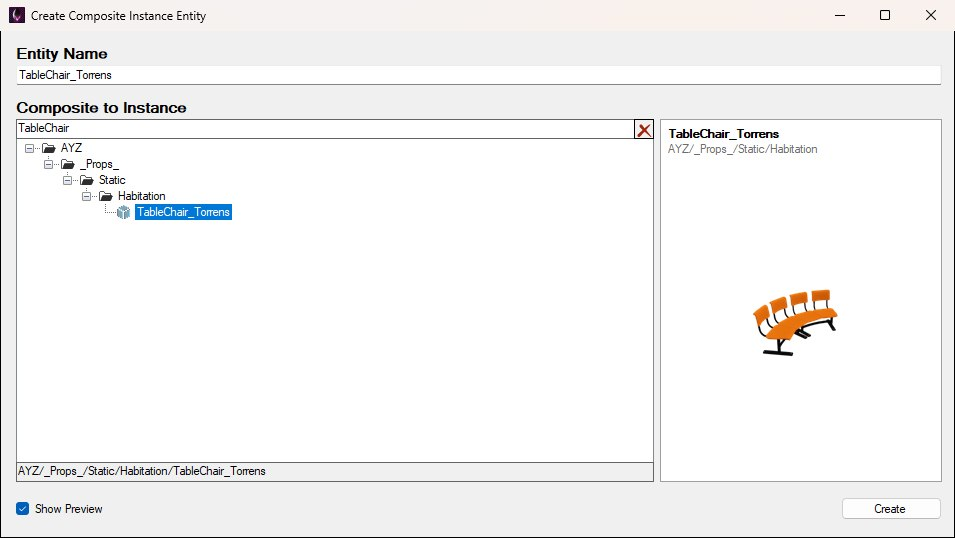
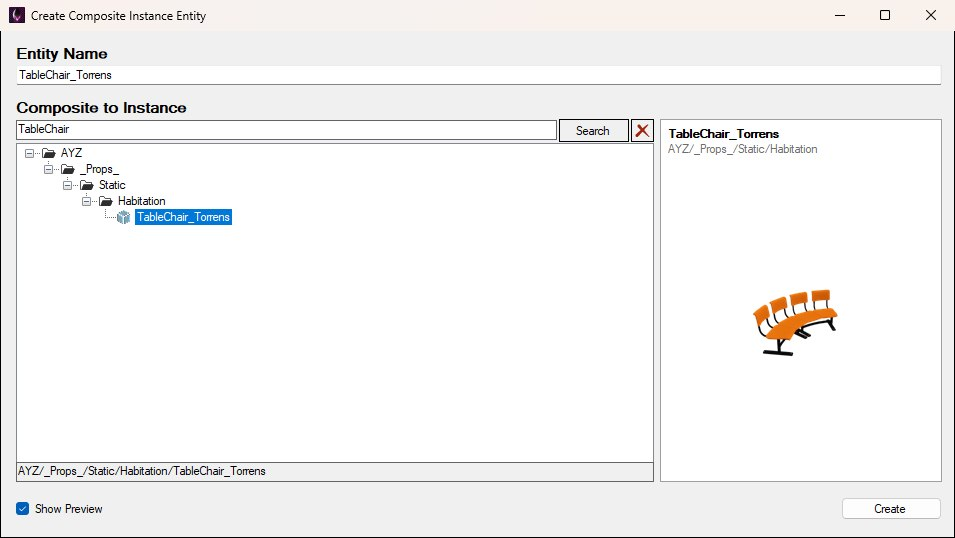
docs update

Changed region(s): [[0.0, 0.2082, 0.6984, 0.4461]]

diff --git a/docs/scripting-intro/index.html b/docs/scripting-intro/index.html
@@ -241,7 +241,7 @@
 			<li><b>[1] Entity List</b> - The panel named after the composite (<b>Bunk_Room Entities</b> here) shows you every entity within the current composite separated by type, with various additional information. Click a column header to sort the list by that column, and click it again to reverse the order - the arrow on the header shows the current sort, which is remembered between sessions. Select several rows with Ctrl or Shift+click and press <b>Delete</b> to remove them in one go (one confirmation, one undo step); <b>Ctrl+C</b> / <b>Ctrl+V</b> copy and paste from here too, and the arrow keys move between entities without stopping on the group headers.</li>
 			<li><b>[2] Flowgraph</b> - This contains the composite's flowgraphs, creating links between entities to drive logic (more later!). Each flowgraph is a page, with a tab along the bottom (<b>DefaultPage</b> here). A composite with no links yet, like a new one, starts with one page named after it (<b>My First Script</b> in the <a href="#creating-script">tutorial picture</a> below). A composite whose links don't match a saved page (one changed with another tool, say, or one with links that no page was ever saved for) opens with no flowgraph pages and no <b>Create Flowgraph</b> button. The inspector then lists the selected entity's links under its parameters, with a <b>Create Link</b> button, so you can still wire it up.</li>
 			<li><b>[3] Entity Inspector</b> - This holds information about the selected entity, and is where you modify its parameters (see <a href="#inspector">The Entity Inspector</a> below). It takes the entity's name as its title.</li>
-			<li><b>[4] Composite Browser</b> - A tab at the bottom left, beside the <b>Entity Palette</b> and the entity list. This contains all composites available within the current level: a folder tree, and under it every composite as a preview of what it contains, captured by the <a href="/docs/level-viewer/#composite-previews">Viewport</a>, which the search box filters as you type. If you'd rather have a folder-by-folder file browser there, or just the tree, change <b>Composite Browser Mode</b> under <b>Options → Composite Display</b>; the same menu can put small previews in the tree views too.</li>
+			<li><b>[4] Composite Browser</b> - A tab at the bottom left, beside the <b>Entity Palette</b> and the entity list. This contains all composites available within the current level: a folder tree, and under it every composite as a preview of what it contains, captured by the <a href="/docs/level-viewer/#composite-previews">Viewport</a>. To narrow both down, type in the search box and press <b>Search</b> (or Enter); clearing the box shows everything again. If you'd rather have a folder-by-folder file browser there, or just the tree, change <b>Composite Browser Mode</b> under <b>Options → Composite Display</b>; the same menu can put small previews in the tree views too.</li>
 			<li><b>[5] Viewport</b> - The level in 3D, docked above the flowgraph, with its toolbar across the top: <b>Selection</b>, <b>Control</b>, <b>Create</b>, <b>Measure</b>, <b>Show State Info</b> and <b>Highlight Zones</b>, then <b>Rotation Snap</b> and <b>Transform Snap</b> at the right-hand end. It's there while <b>Options → Viewport → Enable Viewport</b> is ticked; see the <a href="/docs/level-viewer/">Viewport</a> page.</li>
 		</ul>
 		<p>Along the top are the menu bar (<b>File</b>, <b>Edit</b>, <b>View</b>, <b>Options</b>, <b>Help</b>, <b>Manage Backups</b> and <b>Launch Game</b>, joined by <b>Live Link</b> while the Steam version of the game is running with <a href="/docs/live-link/#live-link-button">Live Link</a>) and, above the Viewport and the flowgraph, the composite bar: the back button and its history dropdown (see <a href="#node-annotations">Reading the Flowgraph</a>), the trail of composites you stepped down through to get here, ending in bold with the one you're in (click an earlier one to go back up to it; just <b>Bunk_Room</b> here, as it was opened on its own), and <b>Composite Instance Info</b>, which shows where the instance you stepped into sits: its position in the level if you stepped down from the root, or relative to the composite you started from if not. Under it, the composite toolbar has <b>Create Entity</b> (a dropdown of the five entity types) and <b>Create Flowgraph</b> for a new page on the left (followed, while <a href="/docs/live-link/">Live Link</a> is connected, by <b>Resync</b> and then <b>Show Activity</b>, each set off by a divider; <b>Clear Activity</b> joins Show Activity while it's on, and both stay after a disconnect while links are still lit), and on the right the buttons for the composite itself: <b>Delete</b>, <b>Rename</b>, <b>Find Instances</b>, which lists its instances in the Search panel, and <b>Port</b>, which opens the <a href="/docs/composite-porting/#export">Port Composites</a> window with this composite ticked.</p>
@@ -332,9 +332,9 @@
 		<p>To customise the text that shows, with the popup message entity selected, find the "header_text" and "main_text" parameters under <b>PopupMessage</b> in the inspector and change them to your liking; they turn bold once they differ from the defaults. Don't forget to click on the debug checkpoint entity and change the "section" parameter to something noticable - this is the name of the checkpoint that'll show in the UI.</p>
 		<p><img src="new-script.jpg" alt="The My First Script composite open in OpenCAGE: a red DebugCheckpoint node with its on_checkpoint pin linked to the start pin of a grey PopupMessage node, and the Entity Inspector showing the PopupMessage's parameters with header_text set to My Popup! and main_text to Hello World!! in bold." width="100%"></p>
 		<p class="text-muted small"><i>The finished composite: DebugCheckpoint's on_checkpoint linked to PopupMessage's start, with the PopupMessage selected. Its header_text ("My Popup!") and main_text ("Hello World!!") are bold because they've been changed; the rest of its parameters, under PopupMessage, SensorInterface and ScriptInterface, are still at their defaults. Both nodes have had <b>Remove Unused Pins</b> applied, so only the linked pins show.</i></p>
-		<p>Our composite is now complete! Now we need to instance it within the level. Navigate to the root composite (find the globe icon in the composite browser), right click in the entity list, and select <b>Create Entity → New Instance of Composite</b>. In the search field, search for the newly created composite "My First Script", select it in the tree and click <b>Create</b>. (Dragging the composite from the composite browser onto the flowgraph does the same.)</p>
-		<p id="composite-instance-preview">That window, <b>Create Composite Instance Entity</b>, shows the selected composite's preview on the right, with its name and folder above it: the same picture as in the composite browser (see <a href="/docs/level-viewer/#composite-previews">Composite Previews</a>), at the size it was captured, never stretched. That's 128 pixels square for the previews OpenCAGE ships, and 256 for one captured again when you saved. A composite with nothing to draw, such as a script or a light, shows <b>No preview</b>. One that's new or changed and has no picture yet shows <b>No preview yet</b>: one is captured when you save the level with the Viewport running. A picture taken before the composite's latest changes has a note under it saying so. Drag the divider between the tree and the preview to share the space between them, or untick <b>Show Preview</b>, under the tree, to hide the preview; the window remembers it.</p>
-		<p><img src="composite-instance-preview.jpg" alt="The Create Composite Instance Entity window: Entity Name TableChair_Torrens at the top, the composite tree searched for TableChair with AYZ, _Props_, Static, Habitation and TableChair_Torrens selected, and on the right the composite's name and folder above its preview picture of a curved row of orange canteen seats. Show Preview is ticked under the tree, and Create is at the bottom right." style="max-width:100%;width:955px"></p>
+		<p>Our composite is now complete! Now we need to instance it within the level. Navigate to the root composite (find the globe icon in the composite browser), right click in the entity list, and select <b>Create Entity → New Instance of Composite</b>. Type the name of the newly created composite, "My First Script", into the search field and press <b>Search</b> (or Enter), then select it in the tree and click <b>Create</b>. (Dragging the composite from the composite browser onto the flowgraph does the same.)</p>
+		<p id="composite-instance-preview">That window, <b>Create Composite Instance Entity</b>, shows the selected composite's preview on the right, with its name and folder above it: the same picture as in the composite browser (see <a href="/docs/level-viewer/#composite-previews">Composite Previews</a>), at the size it was captured, never stretched. That's 128 pixels square for the previews OpenCAGE ships, and 256 for one captured again when you saved. A composite with nothing to draw, such as a script or a light, shows <b>No preview</b>. One that's new or changed and has no picture yet shows <b>No preview yet</b>: one is captured when you save the level with the Viewport running. A picture taken before the composite's latest changes has a note under it saying so. Drag the divider between the tree and the preview to share the space between them, or untick <b>Show Preview</b>, under the tree, to hide the preview. Show Preview is remembered, and is shared with the <b>Select Composite</b> picker that the <a href="/docs/character-editor/#composites">Character Editor</a> opens, which shows the same preview beside its tree.</p>
+		<p><img src="composite-instance-preview.jpg" alt="The Create Composite Instance Entity window: Entity Name TableChair_Torrens at the top, then the search box with TableChair typed in, the Search button and a red clear button, and under them the composite tree opened down through AYZ, _Props_, Static and Habitation to TableChair_Torrens, which is selected. On the right are the composite's name and folder above its preview picture of a curved row of orange canteen seats. Show Preview is ticked under the tree, and Create is at the bottom right." style="max-width:100%;width:955px"></p>
 		<p class="text-muted small"><i>Picking a composite to instance: TableChair_Torrens is selected, and its preview, the one the composite browser shows, sits on the right at the size OpenCAGE ships it.</i></p>
 		<p>Save the level with <b>File → Save Level</b>, then press <b>Launch Game</b> on the menu bar. In the <a href="/docs/launch-game/">Launch Game</a> window, tick <b>Load straight into a level</b> and pick the level you're editing from the list beneath it, tick <b>Enable Debug Checkpoints</b>, and press <b>Start Alien: Isolation</b>. You should now be able to pause the game and go to <b>Load Game → Load Debug Checkpoint</b> and find the "section" name you entered earlier. Select the checkpoint and you watch your popup be displayed on screen. Success! We've just made our first custom logic by adding custom entities, modifying parameters, and creating links with nodes. This is the basis for how everything works in the script editor.</p>
 		<p>Tick <b>Enable Live Link</b> in Launch Game as well, and later tweaks don't need a save and relaunch: while the game is running the level, changes to the script (a new <code>header_text</code>, another link) reach the game as you make them, and the composite toolbar at the top of the composite panel gains <b>Resync</b>, which sends the open composite again if the game falls out of step. To see a tweak without loading the checkpoint again, select the PopupMessage and pick <b>start</b> from <b>▶ Trigger Method</b> in the Entity Inspector (or right-click its <b>start</b> pin and choose <b>Trigger 'start' in Game</b>). If your live changes have gone after loading the checkpoint, Resync the composite. A brand new composite, like "My First Script" here, still needs the level saved and reloaded the first time. See <a href="/docs/live-link/">Live Link</a>.</p>

diff --git a/docs/level-viewer/index.html b/docs/level-viewer/index.html
@@ -317,7 +317,7 @@
 	<section class="docs-section" id="composite-previews">
 		<h2 class="section-heading">Composite Previews</h2>
 		<p>The previews the <a href="/docs/scripting-intro/#interface-overview">composite browser</a> and the composite pickers show beside each composite are captured by the Viewport: the composite as it looks opened on its own (not as one of its instances in a level, so no material remaps or overrides from where it's placed), framed in the middle of a square with a transparent background, seen from above and to one side. OpenCAGE ships one for every composite in the game. When you save a level with the Viewport running, every composite you changed since its preview was captured is captured again, and the new previews are kept in your level's <code>COMMANDS.PAK</code> beside your flowgraph layouts &ndash; they take precedence over the shipped ones, and travel with a composite when it is ported to another level. A composite that draws nothing (pure script) has no preview and keeps its icon. The capture happens without disturbing the view, and if the Viewport is off when you save the shipped previews simply stay until a save with it on.</p>
-		<p><b>Options &gt; Composite Display &gt; Composite Browser Mode</b> chooses what the Composite Browser shows: the tree alone, the tree with a folder browser, or the tree with the preview list (the default). <b>Show Composite Previews In Tree Views</b> puts small ones beside the names in the tree and the composite pickers too (off by default). The <b>Create Composite Instance Entity</b> window shows the selected composite's preview beside its tree, at the size it was captured: see <a href="/docs/scripting-intro/#composite-instance-preview">Creating a Script</a>.</p>
+		<p><b>Options &gt; Composite Display &gt; Composite Browser Mode</b> chooses what the Composite Browser shows: the tree alone, the tree with a folder browser, or the tree with the preview list (the default). <b>Show Composite Previews In Tree Views</b> puts small ones beside the names in the tree and the composite pickers too (off by default). The <b>Create Composite Instance Entity</b> window shows the selected composite's preview beside its tree, at the size it was captured: see <a href="/docs/scripting-intro/#composite-instance-preview">Creating a Script</a>. So does the <b>Select Composite</b> picker, which the <a href="/docs/character-editor/#composites">Character Editor</a>'s <b>Change</b> buttons open.</p>
 	</section>
 
 	<section class="docs-section" id="scene-filters">

diff --git a/docs/character-editor/index.html b/docs/character-editor/index.html
@@ -169,9 +169,9 @@
 			<li><b>Shoes</b></li>
 			<li><b>Collision</b></li>
 		</ul>
-		<p>The picker (shown below) opens with the slot’s current composite already selected in the tree. Type in the search box to filter composites by name (the <b>X</b> button clears it), then click <b>Select Composite</b> to update that slot immediately on the accessory-set entry.</p>
-		<p><img src="img/composite-picker.jpg" alt="The Select Composite window opened from the Head slot’s Change button, with a search box above a composite tree in which the slot’s current head composite is selected, and a Select Composite button below." style="max-width:100%;width:470px"></p>
-		<p class="text-muted small"><i>The picker for the Head slot: the tree opens with the current HEAD_ALBERT composite selected under NPC\MALE\HEAVY\AFRICAN\HEAD.</i></p>
+		<p>The picker (shown below) opens with the slot’s current composite already selected in the tree, and the selected composite’s preview picture beside it: the same picture the composite browser shows (see <a href="/docs/level-viewer/#composite-previews">Composite Previews</a>). To filter composites by name, type in the search box and press <b>Search</b> or Enter (the red <b>X</b> button clears it), then click <b>Select Composite</b> to update that slot immediately on the accessory-set entry. Untick <b>Show Preview</b>, under the tree, to hide the preview; it’s the same setting as in the <a href="/docs/scripting-intro/#composite-instance-preview">Create Composite Instance Entity</a> window. The window can be resized.</p>
+		<p><img src="img/composite-picker.jpg" alt="The Select Composite window opened from the Head slot’s Change button: a search box with a Search button and a red clear button above a composite tree in which the slot’s current head composite, HEAD_ALBERT, is selected, and on the right the composite’s name and folder above its small preview picture of a head in a cap. Show Preview is ticked under the tree, and Select Composite is at the bottom right." style="max-width:100%;width:762px"></p>
+		<p class="text-muted small"><i>The picker for the Head slot: the tree opens with the current HEAD_ALBERT composite selected under NPC\MALE\HEAVY\AFRICAN\HEAD, and its preview on the right.</i></p>
     </section>
 </article>
 

diff --git a/docs/options/index.html b/docs/options/index.html
@@ -135,7 +135,7 @@
 
 	<section class="docs-section" style="padding-top:0;">
 		<ul>
-			<li><b>Composite Browser Mode</b> — what the Composite Browser panel shows under its tree: <b>Tree Only</b> (just the tree), <b>Tree And Browser</b> (a folder-by-folder file browser below it, with a clickable path row like the one above the flowgraph), or <b>Tree And Preview</b> (the default: every composite in the level in one flat list, each as a rendered preview of its content, which the search box above the tree filters as you type). See <a href="/docs/level-viewer/#composite-previews">Composite Previews</a> for where the previews come from.</li>
+			<li><b>Composite Browser Mode</b> — what the Composite Browser panel shows under its tree: <b>Tree Only</b> (just the tree), <b>Tree And Browser</b> (a folder-by-folder file browser below it, with a clickable path row like the one above the flowgraph), or <b>Tree And Preview</b> (the default: every composite in the level in one flat list, each as a rendered preview of its content, which a search above the tree narrows down: type, then press <b>Search</b> or Enter). See <a href="/docs/level-viewer/#composite-previews">Composite Previews</a> for where the previews come from.</li>
 			<li><b>Search Only Composite Names</b> — composite search matches only the composite name, not folder path segments (off by default).</li>
 			<li><b>Show Composite Previews In Tree Views</b> — the same previews, small, beside the names in the composite tree and in every window that picks a composite (off by default, since it makes the rows taller).</li>
 			<li><b>Composite Preview Scale</b> — how big those previews are drawn, from 50% to 200% of their normal size, in the flat list and the tree views alike. They are captured at one size, so the largest settings soften them a little.</li>
